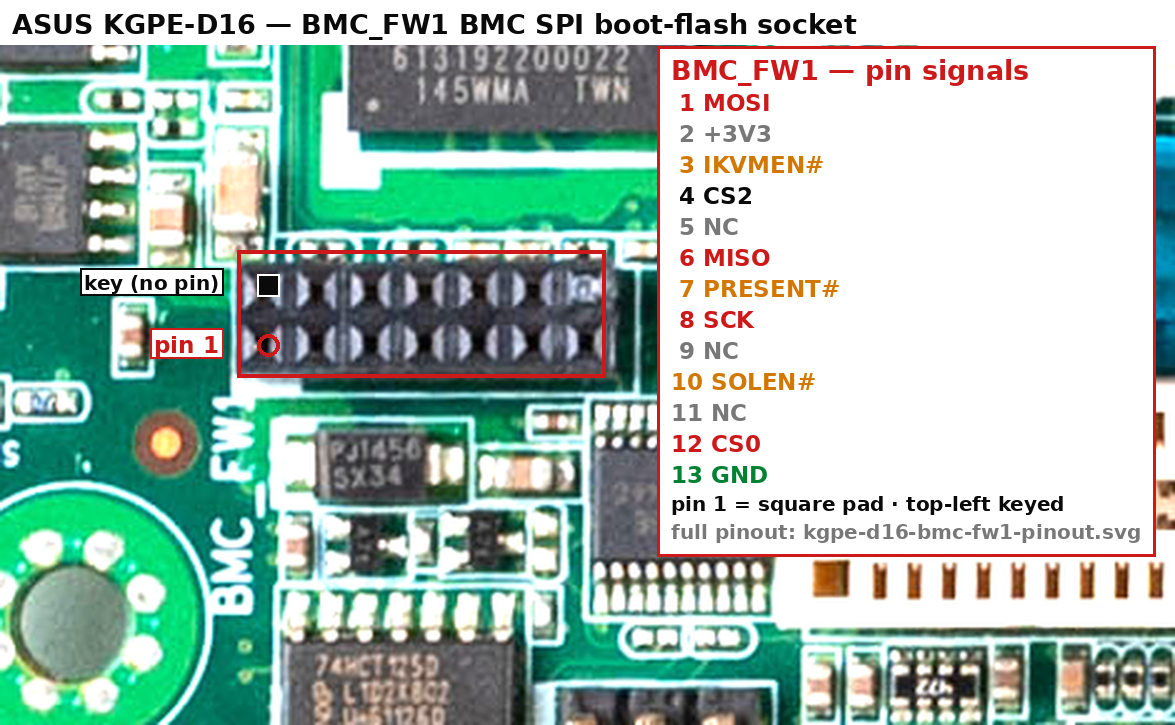
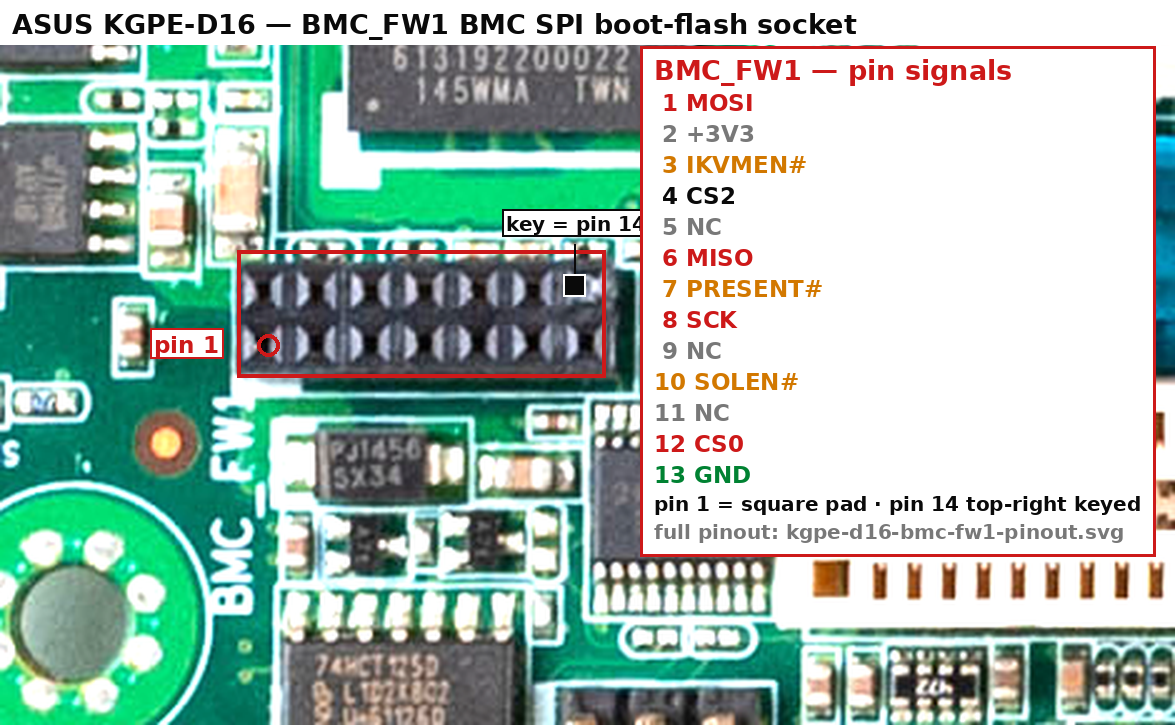
asus: fix BMC_FW1 orientation — pin 1 bottom-left, pin 14 keyed top-right
The ASUS manual figure shows BMC_FW1 with pin 1 at the BOTTOM-LEFT and the
KEYED (filled, no-pin) position at the TOP-RIGHT = pin 14 — standard
column-pair numbering (odd pins bottom row, even top). My previous fix had
the key on the wrong side (top-left) and the wrong numbering scheme; the
shared schematic-wiring SVG was vertically flipped (pin 1 top-left).

- schematic-wiring/diagrams/kgpe-d16-bmc-fw1.svg: redrawn correct — pin 1 =
  red square bottom-left, pin 14 = filled key top-right, odd pins bottom row
  (1,3..13 L-R), even pins top row (2,4..14 L-R). Now the single canonical
  BMC_FW1 pinout, generated by schematic-wiring/diagrams/make-bmc-fw1-svg.py.
- kgpe-d16-bmc-fw1-board.png: key marker moved to the top-right (pin 14),
  pin 1 stays bottom-left. Rebuilt from the high-res board photo.
- BMC-CONNECTORS.md: note that BMC_FW1 is pin-1-bottom-left / pin-14-keyed-
  top-right (an exception to the doc's odd-top convention).
- ULX3S wiring doc §1: text + SVG reference updated; now points at the
  canonical schematic-wiring SVG. Removed the duplicate pinout SVG.

Changed region(s): [[0.4289, 0.0607, 0.9804, 0.7586], [0.0613, 0.3641, 0.2451, 0.4248]]

diff --git a/asus-kgpe-d16-firmware/schematic-wiring/diagrams/make-bmc-fw1-svg.py b/asus-kgpe-d16-firmware/schematic-wiring/diagrams/make-bmc-fw1-svg.py
@@ -1,33 +1,34 @@
 # /// script
 # requires-python = ">=3.11"
 # ///
-"""Generate kgpe-d16-bmc-fw1-pinout.svg.
+"""Generate kgpe-d16-bmc-fw1.svg.
 
 BMC_FW1 pinout drawn to match the ASUS KGPE-D16 manual (§2.7.2, "BMC header"):
-a 2x7 socket with **pin 1 at the bottom-left** and the **top-left position keyed
-(filled/blocked)**. Pins are numbered DIP/row-wise (the only scheme consistent
-with pin-1-bottom-left + a keyed top-left corner):
+a 2x7 socket with **pin 1 at the bottom-left** and **pin 14 keyed (filled) at the
+top-right**. Standard column-pair numbering — odd pins on the bottom row, even on
+the top:
 
-    top row  (L->R):  KEY  13   12   11   10    9    8
-    bot row  (L->R):   1    2    3    4    5    6    7
+    top row  (L->R):   2    4    6    8   10   12   14(key)
+    bot row  (L->R):   1    3    5    7    9   11   13
 
-Signals are the schematic nets (schematic-wiring/BMC-CONNECTORS.md). Colour
-coding + theme-aware styling preserved. The horizontal schematic-wiring SVG
-(schematic-wiring/diagrams/kgpe-d16-bmc-fw1.svg) predates this correction and
-still shows pin 1 top-left; this file is the manual-accurate version.
+Signals are the schematic nets (../BMC-CONNECTORS.md). Colour coding +
+theme-aware styling preserved. This is the canonical BMC_FW1 pinout used by both
+BMC-CONNECTORS.md and the ULX3S/spispy wiring doc; it replaces the earlier
+version that had pin 1 top-left (vertically flipped from the manual).
 
-Run:  uv run make-bmc-fw1-pinout-svg.py
+Run:  uv run make-bmc-fw1-svg.py
 """
 
-# position (row, col) -> (pin-or-None, signal, colour). row 0 = top, 1 = bottom.
-# col 0 = left ... col 6 = right.
+# Standard 2x7 column-pair numbering with pin 1 at the bottom-left (per the ASUS
+# manual): odd pins on the BOTTOM row, even pins on the TOP row, pin 14 (top-right)
+# is the keyed position. col 0 = left ... col 6 = right.
 KEY = "KEY"
-TOP = [(KEY, "", "muted"), (13, "GND", "muted"), (12, "SPICS#0", "blue"),
-       (11, "NC", "muted"), (10, "SOLEN#", "gold"), (9, "NC", "muted"),
-       (8, "SPICLK", "blue")]
-BOT = [(1, "SPIDO", "blue"), (2, "+3V3", "green"), (3, "IKVMEN#", "gold"),
-       (4, "SPICS#2", "blue"), (5, "NC", "muted"), (6, "SPIDI", "blue"),
-       (7, "PRESENT#", "gold")]
+TOP = [(2, "+3V3", "green"), (4, "SPICS#2", "blue"), (6, "SPIDI", "blue"),
+       (8, "SPICLK", "blue"), (10, "SOLEN#", "gold"), (12, "SPICS#0", "blue"),
+       (KEY, "", "muted")]
+BOT = [(1, "SPIDO", "blue"), (3, "IKVMEN#", "gold"), (5, "NC", "muted"),
+       (7, "PRESENT#", "gold"), (9, "NC", "muted"), (11, "NC", "muted"),
+       (13, "GND", "muted")]
 
 X0, DX = 96, 60          # first column x, column pitch
 Y_TOP, Y_BOT = 250, 298  # pin row y
@@ -59,19 +60,19 @@ parts = [
     '  </style>',
     '<text class="t" x="24" y="34">BMC_FW1 — BMC SPI firmware / ASMB4 slot</text>',
     '<text class="st" x="24" y="55">socketed SPI flash + straps · 2×7 · '
-    'pin 1 = square pad (bottom-left) · top-left keyed</text>',
+    'pin 1 = square pad (bottom-left) · pin 14 keyed (top-right)</text>',
     f'<rect class="board" x="{X0-30}" y="224" width="{6*DX+60}" height="100" rx="10"/>',
 ]
 
 def pin(cx, cy, pinno, sig, col, label_y, anchor):
     c = f"var(--{col})"
     out = []
-    if pinno == KEY:  # filled/keyed position
+    if pinno == KEY:  # filled/keyed position (pin 14)
         out.append(
             f'<rect x="{cx-13}" y="{cy-13}" width="26" height="26" rx="3"'
             f' fill="var(--ink)" stroke="var(--ink)" stroke-width="2"/>'
             f'<text class="pn" x="{cx}" y="{cy}" text-anchor="middle"'
-            f' dominant-baseline="central" fill="var(--box)">✕</text>'
+            f' dominant-baseline="central" fill="var(--box)">14</text>'
             f'<text class="m" transform="rotate(-90 {cx} {label_y})" x="{cx}"'
             f' y="{label_y}" text-anchor="{anchor}" dominant-baseline="central">key</text>')
         return "".join(out)
@@ -111,10 +112,10 @@ parts.append(
     '<text class="leg" x="460" y="516">Keyed (no pin)</text>')
 parts.append(
     '<text class="m" x="596" y="540" text-anchor="end">'
-    'numbering: bottom 1→7 L→R · top 8→13 R→L · top-left keyed</text>')
+    'odd pins = bottom row (1→13) · even = top row (2→14) · pin 14 (top-right) keyed</text>')
 parts.append('</svg>')
 
 svg = "\n".join(parts) + "\n"
-with open("kgpe-d16-bmc-fw1-pinout.svg", "w") as f:
+with open("kgpe-d16-bmc-fw1.svg", "w") as f:
     f.write(svg)
-print("wrote kgpe-d16-bmc-fw1-pinout.svg")
+print("wrote kgpe-d16-bmc-fw1.svg")

diff --git a/asus-kgpe-d16-firmware/diagrams/make-kgpe-bmc-fw1-board.py b/asus-kgpe-d16-firmware/diagrams/make-kgpe-bmc-fw1-board.py
@@ -6,8 +6,8 @@
 
 Uses the high-resolution KGPE-D16 top photo from theretroweb.com. Board is kept
 in its natural (standard) orientation to match the ASUS manual and the pinout
-SVG: BMC_FW1 is a 2x7 socket with **pin 1 at the bottom-left** and the
-**top-left position keyed** (filled). Signals are in kgpe-d16-bmc-fw1-pinout.svg.
+SVG: BMC_FW1 is a 2x7 socket with **pin 1 at the bottom-left** and **pin 14
+keyed (top-right)**. Signals are in kgpe-d16-bmc-fw1-pinout.svg.
 
 BMC_FW1 pixel coords (in the source photo) were read off zoomed crops.
 
@@ -64,14 +64,14 @@ hx0, hy0 = src2px(345, 3170)
 hx1, hy1 = src2px(492, 3221)
 d.rectangle((hx0, hy0, hx1, hy1), outline=RED, width=4)
 
-# 7 columns, 2 rows: pin 1 bottom-left, key top-left
+# 7 columns, 2 rows: pin 1 bottom-left, key (pin 14) top-right
 col_x = [src2px(347 + (c + 0.5) * (490 - 347) / 7, 0)[0] for c in range(7)]
 y_top = src2px(0, 3184)[1]
 y_bot = src2px(0, 3208)[1]
 
-# pin 1 marker (bottom-left) + key marker (top-left)
+# pin 1 marker (bottom-left) + key marker (top-right = pin 14)
 p1x, p1y = col_x[0], y_bot
-kx, ky = col_x[0], y_top
+kx, ky = col_x[6], y_top
 d.ellipse((p1x - 11, p1y - 11, p1x + 11, p1y + 11), outline=RED, width=4)
 d.rectangle((kx - 11, ky - 11, kx + 11, ky + 11), fill=BLACK, outline=WHITE, width=2)
 
@@ -84,7 +84,8 @@ def tag(x, y, txt, col, f=F_B, anchor="lt"):
 
 
 tag(hx0 - 12, p1y - 14, "pin 1", RED, anchor="rt")
-tag(hx0 - 12, ky - 14, "key (no pin)", BLACK, F_S, anchor="rt")
+d.line((kx, hy0 - 6, kx, ky - 12), fill=BLACK, width=2)          # tag -> key marker
+tag(kx - 68, hy0 - 38, "key = pin 14", BLACK, F_S, anchor="lt")
 
 # ---- signal legend (right side), rows matching the SVG numbering ----
 # bottom row L->R = pins 1..7 ; top row L->R = key,13,12,11,10,9,8
@@ -94,7 +95,7 @@ sig = {1: ("MOSI", RED), 2: ("+3V3", GREY), 3: ("IKVMEN#", ORANGE),
        12: ("CS0", RED), 13: ("GND", GREEN)}
 lines = [("BMC_FW1 — pin signals", RED, F_H)]
 lines += [(f"{n:>2} {sig[n][0]}", sig[n][1], F_B) for n in range(1, 14)]
-lines.append(("pin 1 = square pad · top-left keyed", BLACK, F_S))
+lines.append(("pin 1 = square pad · pin 14 top-right keyed", BLACK, F_S))
 lines.append(("full pinout: kgpe-d16-bmc-fw1-pinout.svg", GREY, F_S))
 lw = max(tw(t, f) for t, _, f in lines)
 lx, ly = base.width - lw - 34, 54

diff --git a/asus-kgpe-d16-firmware/ULX3S-SPISPY-BMC-FLASH-WIRING.md b/asus-kgpe-d16-firmware/ULX3S-SPISPY-BMC-FLASH-WIRING.md
@@ -66,15 +66,15 @@ prints a "+ −" legend by pin `11`). The right-edge header `J2` is debug-only (
 **On the motherboard:** find `BMC_FW1` — the **2×7 socket** with the `BMC_FW1`
 silkscreen, just below the AST2050 (near `SB_PWR1` / `LOCLED1`, by the PCI slots).
 Per the ASUS manual (§2.7.2), **pin 1 is the square pad at the bottom-left** and
-the **top-left position is keyed (no pin)** — use those two to orient the socket;
-each pin's signal is then fixed. The photo locates the socket on the board (both
-in the board's natural orientation, rear I/O to the left); the SVG is the full
-pinout. Numbering is row-wise: bottom row `1`→`7` left-to-right, top row `8`→`13`
-right-to-left, with the keyed corner where pin 14 would be.
+**pin 14 is keyed (no pin) at the top-right** — use those two to orient the
+socket; each pin's signal is then fixed. The photo locates the socket on the
+board (both in the board's natural orientation, rear I/O to the left); the SVG is
+the full pinout. Standard column-pair numbering: **odd pins on the bottom row**
+(`1`,`3`,…`13` left-to-right), **even pins on the top row** (`2`,`4`,…`14`).
 
 ![Annotated KGPE-D16 photo — BMC_FW1 socket location, pin 1, and keyed corner](diagrams/kgpe-d16-bmc-fw1-board.png)
 
-![BMC_FW1 socket pinout — pin 1 bottom-left, top-left keyed](diagrams/kgpe-d16-bmc-fw1-pinout.svg)
+![BMC_FW1 socket pinout — pin 1 bottom-left, pin 14 keyed top-right](schematic-wiring/diagrams/kgpe-d16-bmc-fw1.svg)
 
 ### Three rules that prevent damage (full list: §5)
 

diff --git a/asus-kgpe-d16-firmware/schematic-wiring/BMC-CONNECTORS.md b/asus-kgpe-d16-firmware/schematic-wiring/BMC-CONNECTORS.md
@@ -103,6 +103,10 @@ A **socketed** 2×7 DIP holding the BMC's SPI firmware flash, so the chip is
 field-replaceable. Beyond the SPI bus it also carries three feature-strap lines
 the BMC samples. See [BMC §4](AST2050-BMC-WIRING.md#4-spi-firmware-flash--bmc_fw1).
 
+> **Orientation (per the ASUS manual §2.7.2):** unlike the odd-top convention
+> above, `BMC_FW1` has **pin 1 (square pad) at the bottom-left** and **pin 14
+> keyed (no pin) at the top-right** — odd pins on the bottom row, even on the top.
+
 ![BMC_FW1 pinout diagram](diagrams/kgpe-d16-bmc-fw1.svg)
 
 | Pin | Net | Function | BMC ball |
